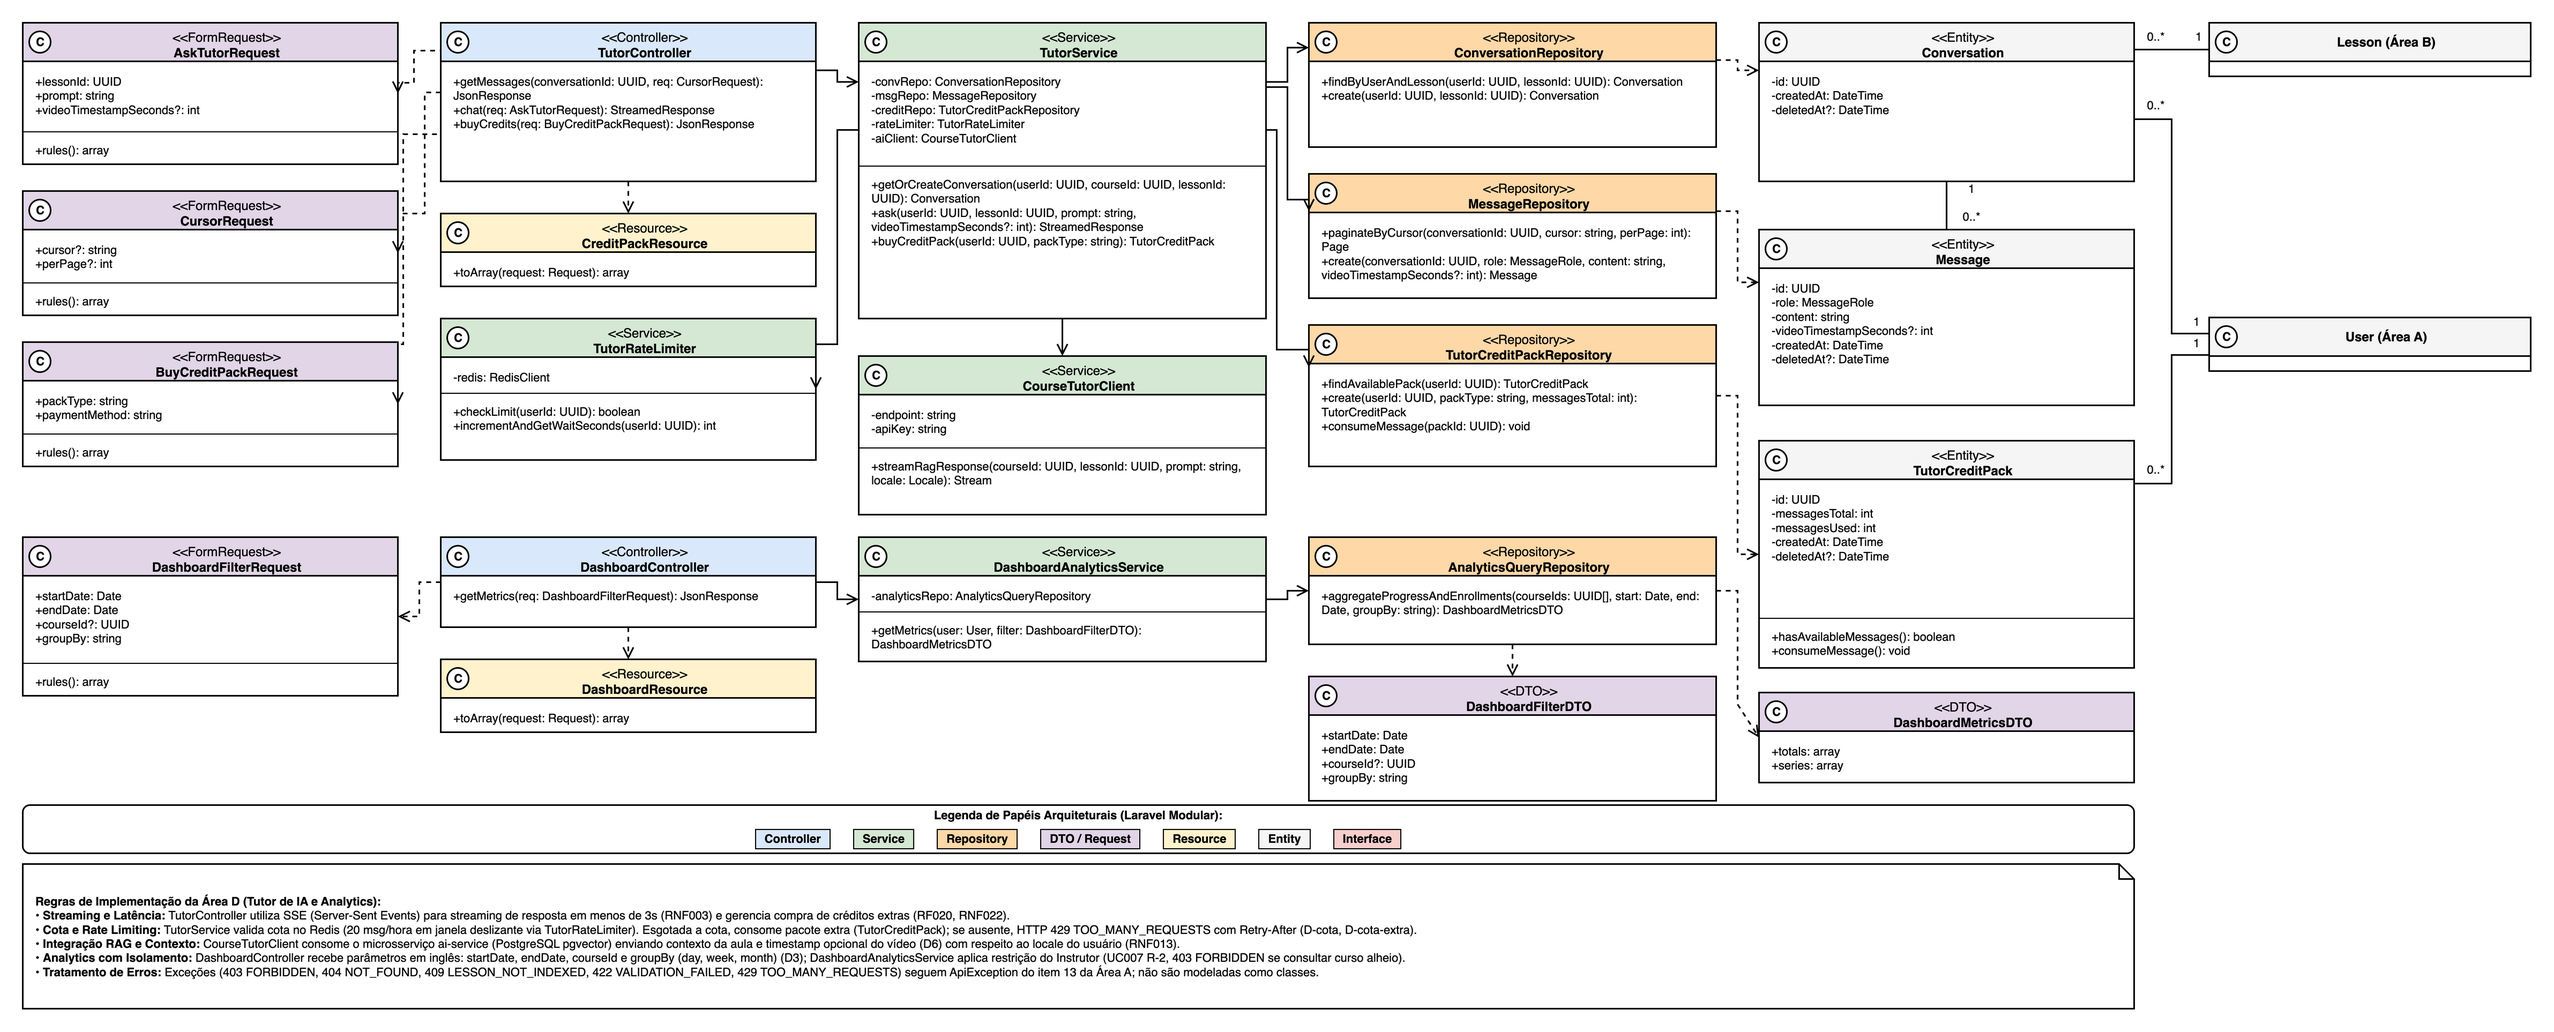
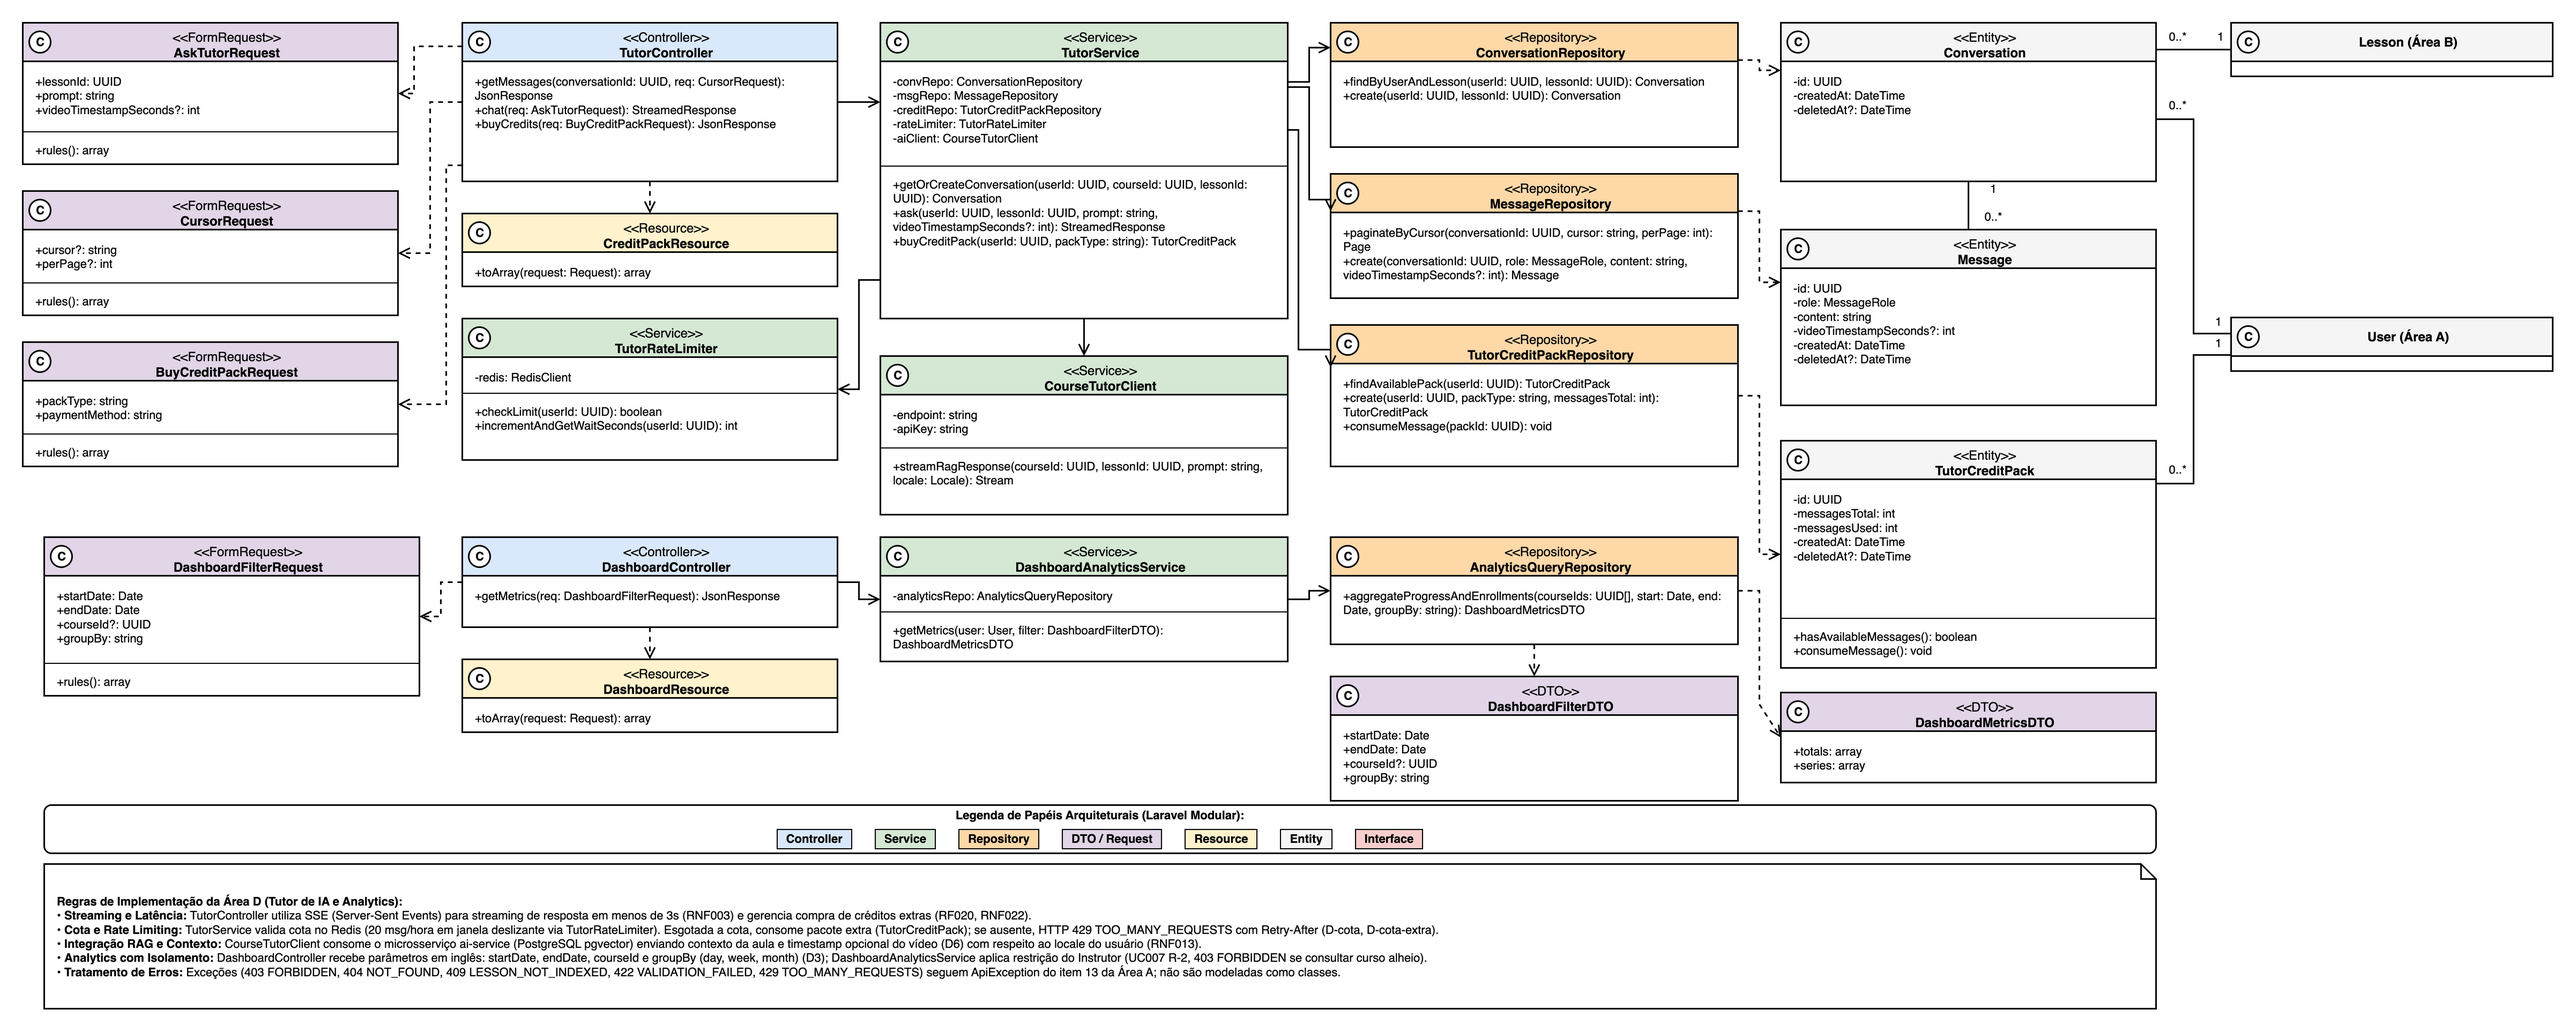
docs(diagrama-de-classes): untangle request arrows and add dashboard DTOs
The tutor-analytics diagram routed the three FormRequest dependencies
from TutorController through a single 40 px gap, so the dashed arrows
crossed each other and the boxes. The TutorService to TutorRateLimiter
association also crossed the Controller to TutorService line. Each
request now gets its own orthogonal lane, and the rate limiter link
runs on a separate lane.

The business diagram referenced DashboardFilter and DashboardMetrics in
viewDashboard without drawing them (review finding 36). Both DTOs are
now drawn, with dashed dependencies from Administrator and Instructor.
The left column was reordered so those dependencies do not cross the
Student associations, which keeps the diagram legend claim
("sem cruzamentos") true. The text in area-d.md describes the new
classes.

(cherry picked from commit f4270d89aa741d0fc169efb8c3793e6d9b30655c)

diff --git a/especificacao/13-diagrama-de-classes/area-d.md b/especificacao/13-diagrama-de-classes/area-d.md
@@ -1,6 +1,6 @@
 ## 4. Área D – Tutor de IA, analytics e administração
 
-Classes dos casos de uso UC001, UC007, UC008, UC016 e UC018, estruturadas sob as perspectivas negocial e técnica de implementação. Na perspectiva negocial, `Administrator` e `Instructor` são subclasses especializadas de `User` (ator do item 5 e entidade base da Área A). `Administrator` possui as operações de governança: `blockUser`, `unblockUser`, `changeUserRole`, `softDeleteUser`, `restoreUser`, `anonymizeUser` e `viewDashboard`, refletindo expressamente as regras de negócio em que o Administrador não pode alterar o próprio perfil nem bloquear a própria conta (UC008 R-1, R-2, E1 e E3). `Instructor` possui a operação `viewDashboard`, permitindo a visualização analítica restrita aos seus próprios cursos (UC007 R-2). A interação com o assistente pedagógico é modelada por `Conversation`, que se associa aos tipos fortes `Student`, `Course` e `Lesson`, contendo uma composição de instâncias de `Message` (`1..*`), cada qual associada ao enumerador `MessageRole` (`user` ou `assistant`), podendo conter o atributo opcional `videoTimestampSeconds` (D6). O consumo extra de interações pedagógicas além da cota é governado pela entidade `TutorCreditPack`, associada a `Student` (`1` para `0..*`), com os atributos `messagesTotal` e `messagesUsed`, as operações `hasAvailableMessages()` e `consumeMessage()`, e sujeita a exclusão lógica via `deletedAt` (ADR-0014). As ações administrativas e eventos de segurança geram instâncias de `AuditLog`, associadas ao `User` ator (`1` para `0..*`) e tipadas pelo enumerador `AuditAction` (`USER_BLOCK`, `USER_UNBLOCK`, `ROLE_CHANGE`, `USER_DELETE`, `USER_RESTORE`, `ACCESS_DENIED`), cumprindo o RNF016 com retenção contínua em tabela particionada mensalmente (ADR-0016) e preservação da privacidade na anonimização conforme a LGPD (UC018 R-4). Em conformidade com o padrão do item 13 (TE5_1), as classes não utilizam identificadores de chaves estrangeiras como atributos primitivos, adotando associações e composições tipadas.
+Classes dos casos de uso UC001, UC007, UC008, UC016 e UC018, estruturadas sob as perspectivas negocial e técnica de implementação. Na perspectiva negocial, `Administrator` e `Instructor` são subclasses especializadas de `User` (ator do item 5 e entidade base da Área A). `Administrator` possui as operações de governança: `blockUser`, `unblockUser`, `changeUserRole`, `softDeleteUser`, `restoreUser`, `anonymizeUser` e `viewDashboard`, refletindo expressamente as regras de negócio em que o Administrador não pode alterar o próprio perfil nem bloquear a própria conta (UC008 R-1, R-2, E1 e E3). `Instructor` possui a operação `viewDashboard`, permitindo a visualização analítica restrita aos seus próprios cursos (UC007 R-2). Nas duas classes, `viewDashboard` recebe um `DashboardFilter` (`startDate`, `endDate`, `courseId` opcional e `groupBy`) e devolve `DashboardMetrics` (`totals` e `series`); as duas classes de filtro e de métricas aparecem no diagrama como dependências tracejadas de `Administrator` e `Instructor`, sem cruzamentos. A interação com o assistente pedagógico é modelada por `Conversation`, que se associa aos tipos fortes `Student`, `Course` e `Lesson`, contendo uma composição de instâncias de `Message` (`1..*`), cada qual associada ao enumerador `MessageRole` (`user` ou `assistant`), podendo conter o atributo opcional `videoTimestampSeconds` (D6). O consumo extra de interações pedagógicas além da cota é governado pela entidade `TutorCreditPack`, associada a `Student` (`1` para `0..*`), com os atributos `messagesTotal` e `messagesUsed`, as operações `hasAvailableMessages()` e `consumeMessage()`, e sujeita a exclusão lógica via `deletedAt` (ADR-0014). As ações administrativas e eventos de segurança geram instâncias de `AuditLog`, associadas ao `User` ator (`1` para `0..*`) e tipadas pelo enumerador `AuditAction` (`USER_BLOCK`, `USER_UNBLOCK`, `ROLE_CHANGE`, `USER_DELETE`, `USER_RESTORE`, `ACCESS_DENIED`), cumprindo o RNF016 com retenção contínua em tabela particionada mensalmente (ADR-0016) e preservação da privacidade na anonimização conforme a LGPD (UC018 R-4). Em conformidade com o padrão do item 13 (TE5_1), as classes não utilizam identificadores de chaves estrangeiras como atributos primitivos, adotando associações e composições tipadas.
 
 Na perspectiva de implementação, os componentes são organizados segundo o padrão arquitetural em camadas do monólito modular Laravel (ADR-0018, monólito modular: a Área D forma os módulos Admin e Analytics, que se falam com os demais por Services), divididos em dois diagramas dedicados para assegurar legibilidade em página A4:
 
